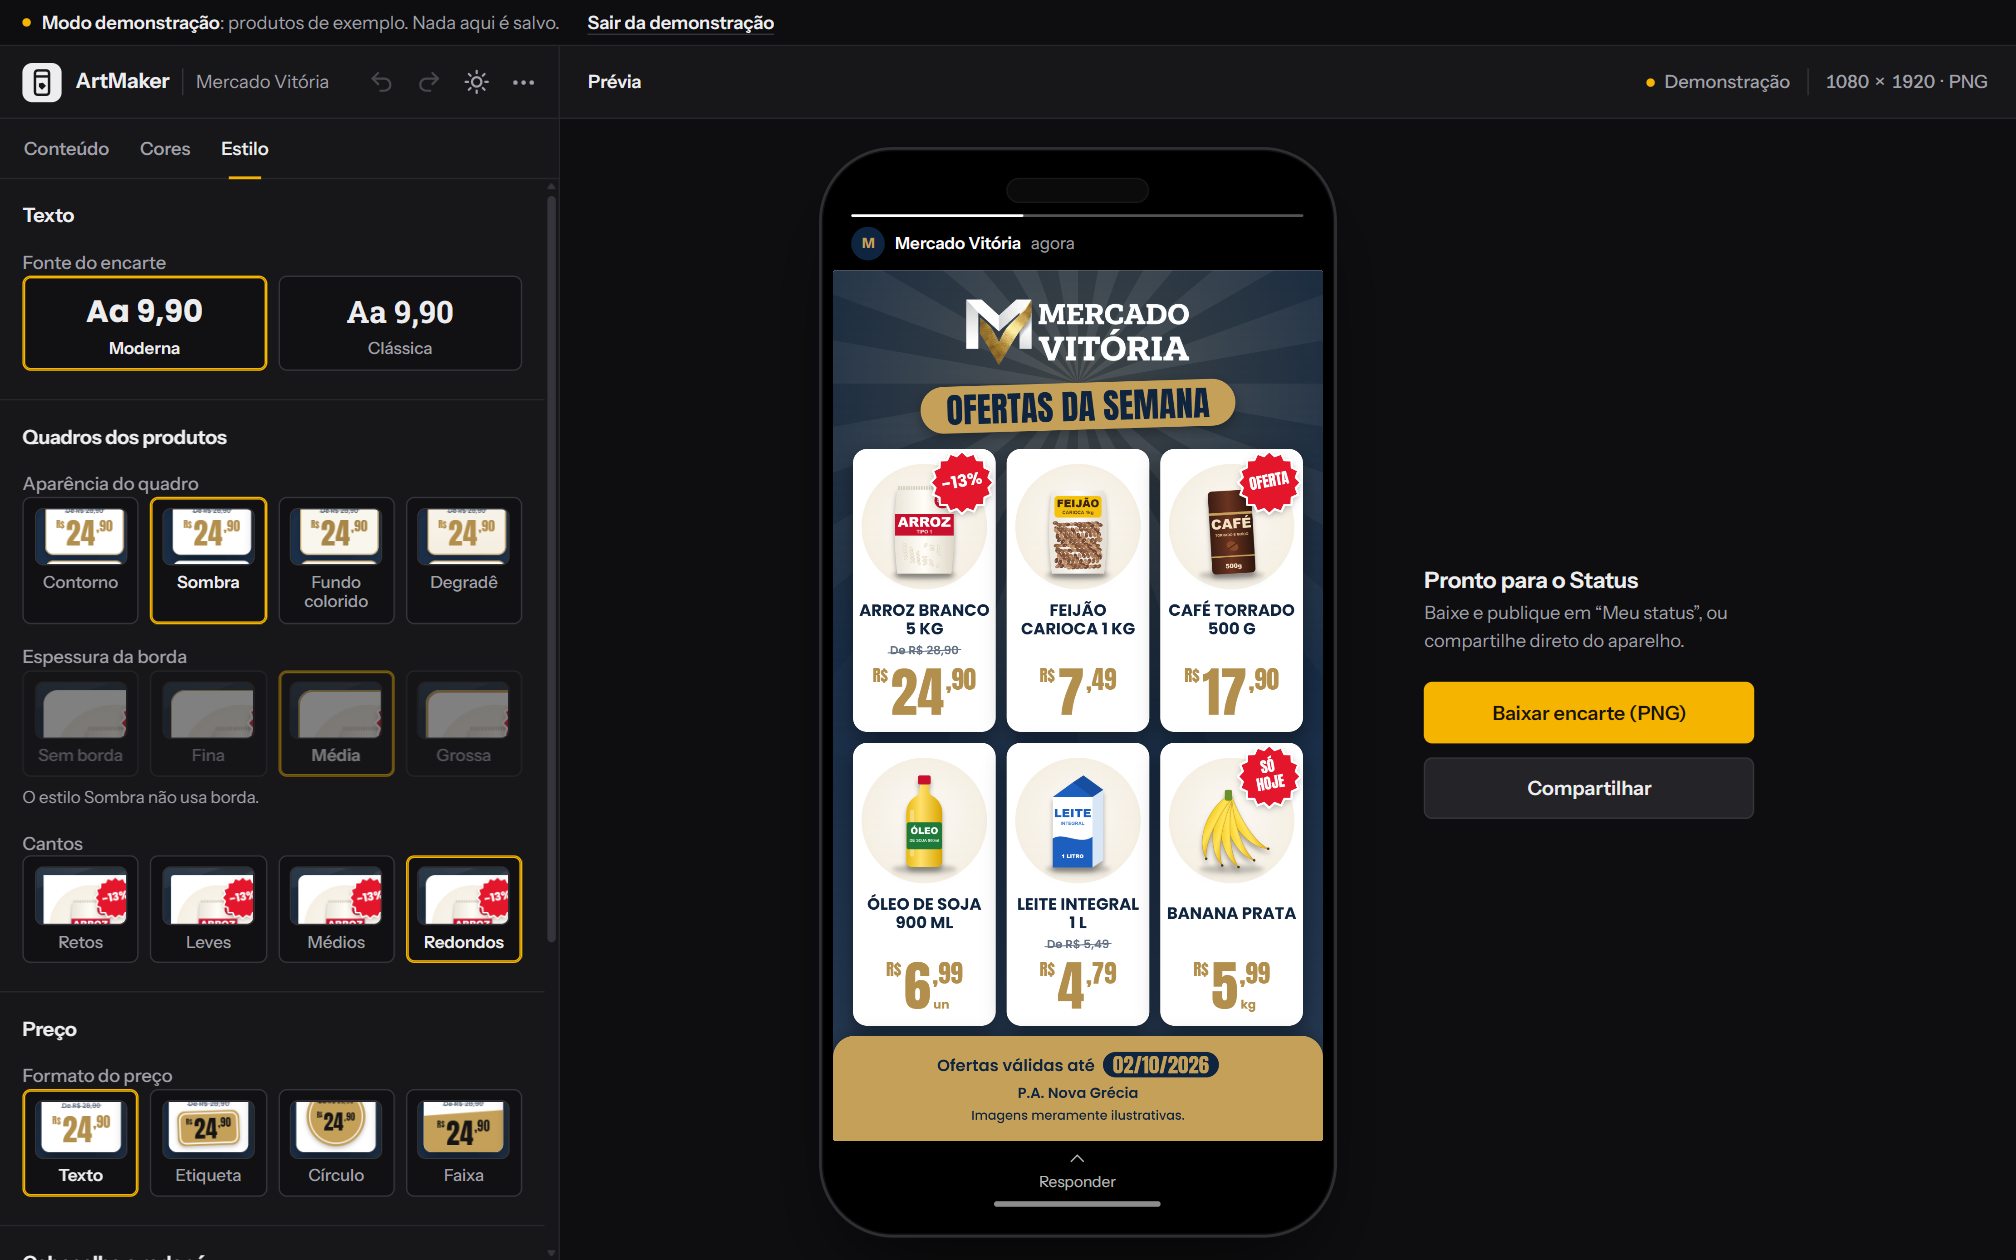
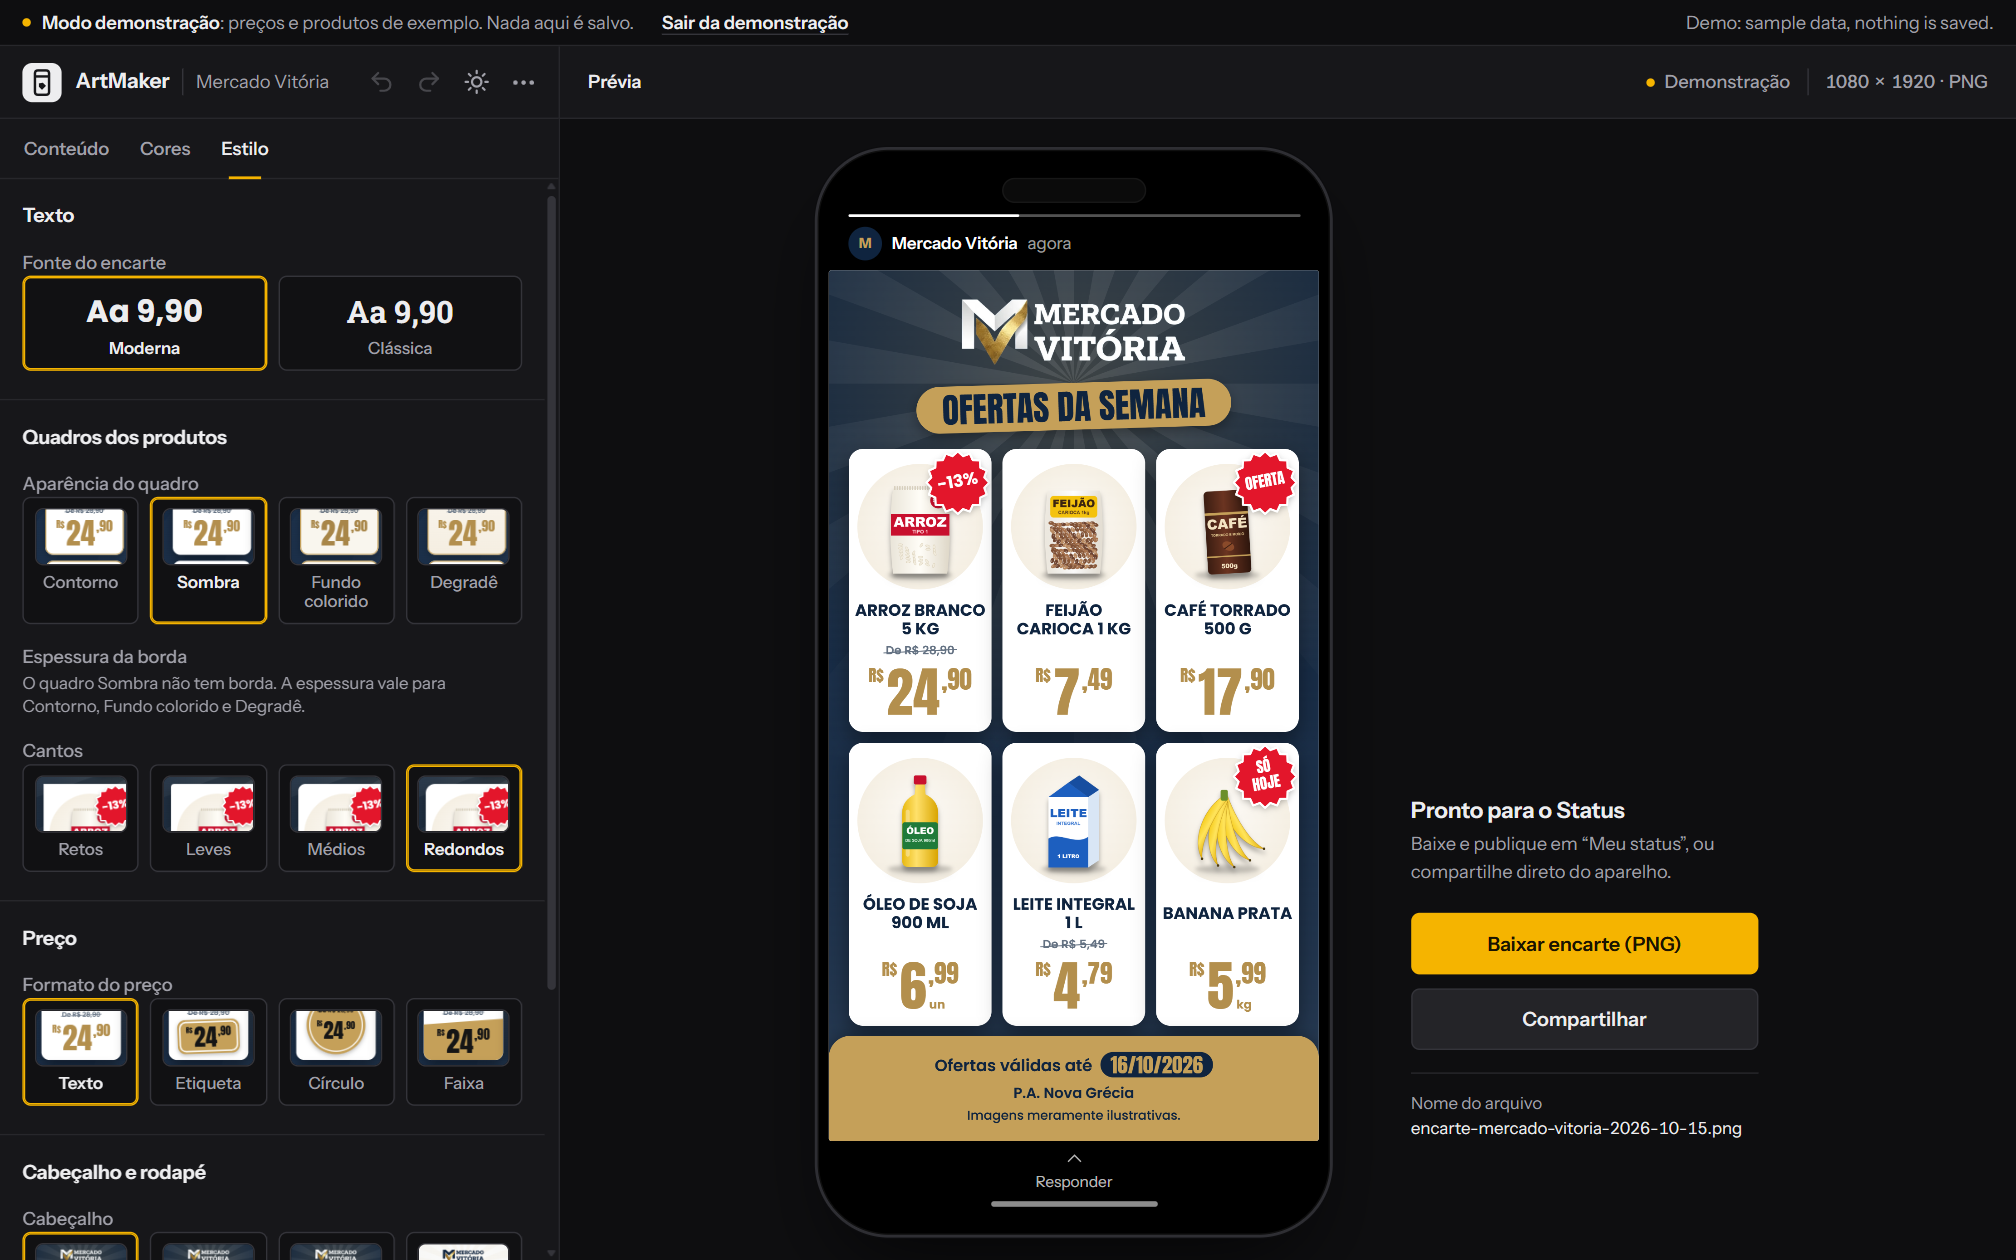
docs: README com a demo e os encartes na capa, autorização da marca e fontes
- capa: os três encartes no Status (a imagem mais forte), com uma linha
  de proposta; o link da demonstração vem primeiro e o editor vazio depois
- diz que o Mercado Vitória existe e que o nome e a logo aparecem com a
  autorização da dona
- privacidade: o que se digita e as fotos ficam no aparelho; só as fontes
  vêm do Google Fonts
- segurança (CSP por hash e o teste que a confere) e o limite da CSP por
  meta no GitHub Pages
- imagens de docs/telas refeitas com a versão nova (a capa antiga ainda
  mostrava "6 produtos· até")

diff --git a/README.pt-BR.md b/README.pt-BR.md
@@ -1,18 +1,25 @@
 # ArtMaker
 
-![ArtMaker: o editor no computador e no celular, com o encarte dentro da moldura do Status](docs/telas/capa.png)
+Encartes de ofertas da semana para o Status do WhatsApp, feitos para um
+mercado de verdade.
+
+![Três encartes feitos no ArtMaker, nas paletas vermelha, azul e verde, cada um na moldura do Status num celular](docs/telas/encartes.png)
+
+**[Ver a demonstração](https://alyssom-fernandes.github.io/ArtMaker/?demo=1)**: um
+encarte completo com seis produtos ilustrados, em que nada é salvo. Ou
+[abrir o editor vazio](https://alyssom-fernandes.github.io/ArtMaker/).
 
 O ArtMaker monta encartes de ofertas no formato do Status do WhatsApp e
 dos Stories (1080 × 1920). Foi feito para a dona do Mercado Vitória
 publicar as promoções da semana sozinha, pelo celular ou pelo computador,
 sem designer e sem aplicativo pago: ela escreve os produtos e os preços,
-escolhe as fotos e baixa ou compartilha o encarte pronto.
+escolhe as fotos e baixa ou compartilha o encarte pronto. O Mercado
+Vitória existe de verdade; o nome e a logo aparecem com a autorização da
+dona.
 
 É um arquivo HTML só, com JavaScript puro, sem framework, sem etapa de
-build e sem servidor. Tudo fica no aparelho de quem usa.
-
-**[Abrir o ArtMaker](https://alyssom-fernandes.github.io/ArtMaker/)** · **[Ver a demonstração](https://alyssom-fernandes.github.io/ArtMaker/?demo=1)**, um
-encarte completo com seis produtos ilustrados, em que nada é salvo.
+build e sem servidor. O que se digita e as fotos ficam no aparelho de
+quem usa; da internet vêm só as fontes, do Google Fonts.
 
 [![Testes](https://github.com/alyssom-fernandes/ArtMaker/actions/workflows/testes.yml/badge.svg)](https://github.com/alyssom-fernandes/ArtMaker/actions/workflows/testes.yml)
 ![Arquivo único](https://img.shields.io/badge/arquivo-%C3%BAnico-success?style=flat-square)
@@ -34,15 +41,17 @@ Este README também está em [inglês](README.md).
 
 Capturadas do modo demonstração.
 
+![ArtMaker: o editor no computador e no celular, com o encarte dentro da moldura do Status](docs/telas/capa.png)
+
 | Editor, tema escuro | Editor, tema claro |
 |---|---|
 | ![Editor no tema escuro](docs/telas/editor-escuro.png) | ![Editor no tema claro](docs/telas/editor-claro.png) |
 | **Cores, com as paletas desenhadas de verdade** | **Estilo, com miniaturas desenhadas pelo próprio motor do encarte** |
 | ![Aba Cores](docs/telas/cores-claro.png) | ![Aba Estilo](docs/telas/estilo-escuro.png) |
 
-| Encartes gerados (PNG 1080 × 1920) | No celular |
-|---|---|
-| <img src="docs/telas/encartes.png" alt="Três encartes gerados, com paletas e estilos diferentes, cada um num celular com a moldura do Status" width="560"> | <img src="docs/telas/celular.png" alt="ArtMaker no celular" width="260"> |
+| No celular |
+|---|
+| <img src="docs/telas/celular.png" alt="ArtMaker no celular" width="260"> |
 
 ## O que ele faz
 
@@ -120,8 +129,11 @@ Capturadas do modo demonstração.
 ### Celular, temas e acessibilidade
 
 - No computador, a prévia mostra o encarte dentro de um celular, com a
-  moldura do Status do WhatsApp.
-- No celular: as abas, com Desfazer e Refazer, ficam presas no topo, e
+  moldura do Status do WhatsApp, e os botões ao lado, com o nome que o
+  arquivo vai ter. Passar o mouse numa paleta mostra o encarte com ela; o
+  clique aplica.
+- No celular, a demonstração abre no encarte pronto. Na edição, as abas,
+  com Desfazer e Refazer, ficam presas no topo, e
   uma barra embaixo mostra a miniatura viva do encarte. A prévia, o Sobre
   e o menu abrem como folhas, que fecham arrastando para baixo. No
   teclado, Enter leva ao campo seguinte.
@@ -140,6 +152,7 @@ Capturadas do modo demonstração.
 | Dados | `localStorage` para o estado, IndexedDB para as fotos |
 | Compartilhar | Web Share API com arquivo |
 | Fontes | Instrument Sans na interface; Anton, Poppins e Roboto Slab no encarte; JetBrains Mono na assinatura (Google Fonts) |
+| Segurança | Content Security Policy por meta (cada script inline liberado pelo hash SHA-256), sem referrer |
 | Testes | `node --test`, sem dependências, rodando a cada envio (GitHub Actions) |
 
 Algumas decisões por trás dele:
@@ -157,11 +170,19 @@ Algumas decisões por trás dele:
   datas locais, nome do arquivo, id das fotos e a migração dos dados
   salvos por versões antigas. O teste recorta o bloco de funções puras do
   próprio `index.html`.
+- **A página só roda o próprio código.** A política de segurança libera
+  cada script inline pelo hash e, de fora, só o Google Fonts. Um teste
+  recalcula os hashes: mudar um script sem atualizar a política quebra o
+  build, e não a página no ar.
 
 ## Limitações conhecidas
 
-- As fontes vêm do Google Fonts. Sem internet na primeira abertura, o
-  encarte sai com fontes do sistema.
+- As fontes vêm do Google Fonts, então o navegador fala com o Google para
+  buscá-las (nada do que se digita ou das fotos vai junto). Sem internet
+  na primeira abertura, o encarte sai com fontes do sistema.
+- O GitHub Pages não deixa mandar cabeçalhos próprios, então a política
+  de segurança vai por meta. Desse jeito ela não impede outro site de
+  embutir a página num quadro.
 - **Compartilhar** precisa de HTTPS e de um navegador que compartilhe
   arquivos (Chrome no Android, Safari no iPhone). No computador, quase
   sempre só aparece o **Baixar**.
@@ -170,7 +191,8 @@ Algumas decisões por trás dele:
 - Os dados ficam no navegador do aparelho. Limpar os dados do site apaga
   o encarte; para guardar ou levar a outro aparelho, use **Salvar
   projeto em arquivo**, no menu.
-- A interface é só em português.
+- A interface é só em português. Na demonstração, a faixa do topo também
+  avisa em inglês, nas telas largas, que os dados são de exemplo.
 
 ## Como usar a sua cópia
 
@@ -195,6 +217,7 @@ index.html            o app inteiro: interface, desenho do encarte e a logo padr
 404.html              página de endereço não encontrado
 tests/
   puro.test.mjs       testes das funções puras do index.html
+  csp.test.mjs        confere que a política de segurança libera só os scripts da página
 .github/workflows/
   testes.yml          roda os testes a cada envio
 docs/telas/           imagens deste README e a prévia de link (og.png)

diff --git a/README.md b/README.md
@@ -1,20 +1,26 @@
 # ArtMaker
 
-![ArtMaker: the editor on a computer and on a phone, with the flyer inside the Status frame](docs/telas/capa.png)
+Weekly deals flyers for WhatsApp Status, made for a real grocery store in
+Brazil.
+
+![Three flyers made with ArtMaker, in red, blue and green palettes, each inside the WhatsApp Status frame on a phone](docs/telas/encartes.png)
+
+**[See the live demo](https://alyssom-fernandes.github.io/ArtMaker/?demo=1)**: a
+complete flyer with six illustrated products, where nothing is saved. Or
+[open an empty editor](https://alyssom-fernandes.github.io/ArtMaker/).
 
 ArtMaker builds promotional flyers in the WhatsApp Status and Stories
 format (1080 × 1920). It was made for the owner of Mercado Vitória, a
 grocery store in Brazil, so she could publish the week's deals on her
 own, from her phone or computer, with no designer and no paid app: she
 types the products and prices, picks the photos, and downloads or shares
-the finished flyer.
+the finished flyer. Mercado Vitória is a real store; its name and logo
+appear with the owner's permission.
 
 It is a single HTML file with plain JavaScript: no framework, no build
-step and no server. Everything stays on the user's device. The interface
+step and no server. What the user types and the photos they add stay on
+their device; only the fonts are loaded from Google Fonts. The interface
 is in Portuguese.
-
-**[Open ArtMaker](https://alyssom-fernandes.github.io/ArtMaker/)** · **[See the demo](https://alyssom-fernandes.github.io/ArtMaker/?demo=1)**, a complete
-flyer with six illustrated products, where nothing is saved.
 
 [![Tests](https://github.com/alyssom-fernandes/ArtMaker/actions/workflows/testes.yml/badge.svg)](https://github.com/alyssom-fernandes/ArtMaker/actions/workflows/testes.yml)
 ![Single file](https://img.shields.io/badge/single-file-success?style=flat-square)
@@ -37,15 +43,17 @@ This README is also available in [Portuguese](README.pt-BR.md).
 
 Taken from the demo mode.
 
+![ArtMaker: the editor on a computer and on a phone, with the flyer inside the Status frame](docs/telas/capa.png)
+
 | Editor, dark theme | Editor, light theme |
 |---|---|
 | ![Editor, dark theme](docs/telas/editor-escuro.png) | ![Editor, light theme](docs/telas/editor-claro.png) |
 | **Colors, with the palettes drawn for real** | **Style, with thumbnails drawn by the flyer's own engine** |
 | ![Colors tab](docs/telas/cores-claro.png) | ![Style tab](docs/telas/estilo-escuro.png) |
 
-| Generated flyers (PNG 1080 × 1920) | On a phone |
-|---|---|
-| <img src="docs/telas/encartes.png" alt="Three generated flyers with different palettes and styles, each on a phone inside the Status frame" width="560"> | <img src="docs/telas/celular.png" alt="ArtMaker on a phone" width="260"> |
+| On a phone |
+|---|
+| <img src="docs/telas/celular.png" alt="ArtMaker on a phone" width="260"> |
 
 ## What it does
 
@@ -125,8 +133,11 @@ Taken from the demo mode.
 ### Phone, themes and accessibility
 
 - On a computer, the preview shows the flyer inside a phone, with the
-  WhatsApp Status frame around it.
-- On a phone: the tabs, with Undo and Redo, stay pinned to the top, and a
+  WhatsApp Status frame around it, and the buttons beside it with the
+  name the file will have. Hovering over a palette shows the flyer in it;
+  a click applies it.
+- On a phone, the demo opens on the finished flyer. While editing, the
+  tabs, with Undo and Redo, stay pinned to the top, and a
   bar at the bottom shows a live thumbnail of the flyer. The preview, the
   About box and the menu open as bottom sheets that close with a swipe
   down. On the keyboard, Enter moves to the next field.
@@ -146,6 +157,7 @@ Taken from the demo mode.
 | Data | `localStorage` for state, IndexedDB for photos |
 | Sharing | Web Share API with files |
 | Fonts | Instrument Sans for the interface; Anton, Poppins and Roboto Slab for the flyer; JetBrains Mono for the signature (Google Fonts) |
+| Security | Content Security Policy in a meta tag (each inline script allowed by its SHA-256 hash), no referrer |
 | Tests | `node --test`, no dependencies, run on every push (GitHub Actions) |
 
 Some decisions behind it:
@@ -163,11 +175,19 @@ Some decisions behind it:
   adjustment, local dates, the file name, photo ids and the migration of
   data saved by older versions. The test cuts the block of pure functions
   out of `index.html` itself.
+- **The page only runs its own code.** The security policy allows each
+  inline script by its hash and, from outside, only Google Fonts. A test
+  recomputes the hashes, so changing a script without updating the policy
+  fails the build instead of breaking the live page.
 
 ## Known limitations
 
-- Fonts come from Google Fonts. Without internet on the first visit, the
-  flyer uses system fonts.
+- Fonts come from Google Fonts, so the browser contacts Google to fetch
+  them (nothing typed or uploaded goes along). Without internet on the
+  first visit, the flyer uses system fonts.
+- GitHub Pages does not allow custom headers, so the security policy is
+  set in a meta tag. That form cannot stop another site from embedding
+  the page in a frame.
 - **Compartilhar** (Share) needs HTTPS and a browser that can share files
   (Chrome on Android, Safari on iPhone). On a computer, usually only
   **Baixar** (Download) shows up.
@@ -176,7 +196,8 @@ Some decisions behind it:
 - Data stays in the device's browser. Clearing the site's data erases the
   flyer; to keep it or move it to another device, use **Salvar projeto em
   arquivo** (Save project to a file), in the menu.
-- The interface is in Portuguese only.
+- The interface is in Portuguese only. In the demo, the banner at the top
+  also says in English, on wide screens, that the data is a sample.
 
 ## Running your own copy
 
@@ -201,6 +222,7 @@ index.html            the whole app: interface, flyer drawing and the default lo
 404.html              not-found page
 tests/
   puro.test.mjs       tests for the pure functions in index.html
+  csp.test.mjs        checks that the security policy allows exactly the page's scripts
 .github/workflows/
   testes.yml          runs the tests on every push
 docs/telas/           images used in this README and the link preview (og.png)
